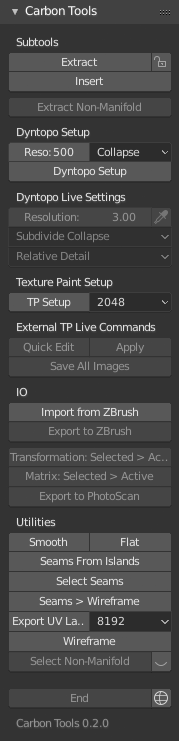
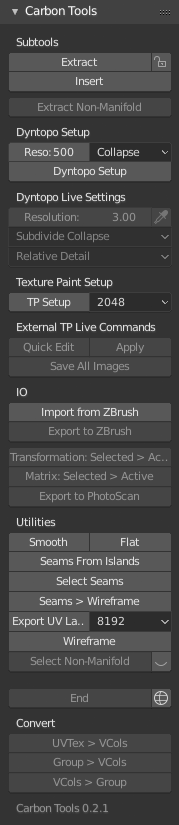
uvtex / vcols / group conversions

diff --git a/carbon_tools.py b/carbon_tools.py
@@ -19,7 +19,7 @@
 bl_info = {"name": "Carbon Tools",
            "description": "Ever-evolving set of small tools, workflows and shortcuts focused mainly on processing photogrammetry scans.",
            "author": "Jakub Uhlik",
-           "version": (0, 2, 0),
+           "version": (0, 2, 1),
            "blender": (2, 80, 0),
            "location": "3D Viewport > Sidebar > Carbon Tools",
            "warning": "",
@@ -31,6 +31,7 @@ bl_info = {"name": "Carbon Tools",
 import os
 import uuid
 import sys
+import math
 
 import bpy
 import bmesh
@@ -38,6 +39,16 @@ from bpy.types import Operator, Panel
 from mathutils import Vector, Matrix
 from bpy.props import FloatProperty, IntProperty, BoolProperty, StringProperty, EnumProperty, PointerProperty
 from bpy.types import PropertyGroup
+import numpy as np
+
+
+DEBUG = False
+
+
+def log(msg, indent=0, ):
+    m = "{0}> {1}".format("    " * indent, msg)
+    if(DEBUG):
+        print(m)
 
 
 class ObjDiff():
@@ -71,6 +82,33 @@ class Utils():
             if(a.type == "VIEW_3D"):
                 return a.spaces[0]
         return None
+
+
+class Progress():
+    def __init__(self, total, indent=0, prefix="> ", ):
+        self.current = 0
+        self.percent = -1
+        self.last = -1
+        self.total = total
+        self.prefix = prefix
+        self.indent = indent
+        self.t = "    "
+        self.r = "\r"
+        self.n = "\n"
+    
+    def step(self, numdone=1):
+        if(not DEBUG):
+            return
+        
+        self.current += numdone
+        self.percent = int(self.current / (self.total / 100))
+        if(self.percent > self.last):
+            sys.stdout.write(self.r)
+            sys.stdout.write("{0}{1}{2}%".format(self.t * self.indent, self.prefix, self.percent))
+            self.last = self.percent
+        if(self.percent >= 100 or self.total == self.current):
+            sys.stdout.write(self.r)
+            sys.stdout.write("{0}{1}{2}%{3}".format(self.t * self.indent, self.prefix, 100, self.n))
 
 
 class CARBON_OT_quick_mesh_dyntopo_cleanup(Operator):
@@ -671,6 +709,237 @@ class CARBON_OT_shade_flat(Operator):
         return {'FINISHED'}
 
 
+class CARBON_OT_texture_to_vertex_colors(Operator):
+    bl_idname = "carbon_tools.texture_to_vertex_colors"
+    bl_label = "UVTex > VCols"
+    bl_description = "Copy image colors from active image texture node in active material using active UV layout to new vertex colors"
+    bl_options = {'REGISTER', 'UNDO', }
+    
+    @classmethod
+    def poll(cls, context):
+        # o = context.active_object
+        # o_ok = (o is not None and o.type == 'MESH' and context.mode == 'OBJECT')
+        # m = o.active_material
+        # m_ok = (m is not None)
+        # n_ok = False
+        # i_ok = False
+        # u_ok = (o.data.uv_layers.active is not None)
+        # if(m_ok):
+        #     n = m.node_tree.nodes.active
+        #     n_ok = (n.type == 'TEX_IMAGE')
+        #     if(n_ok):
+        #         if(n.image is not None):
+        #             i = n.image
+        #             i_ok = os.path.exists(i.filepath_from_user())
+        # return (o_ok and m_ok and n_ok and i_ok and u_ok)
+        
+        if(context.mode != 'OBJECT'):
+            return False
+        o = context.active_object
+        if(not o):
+            return False
+        if(o.type != 'MESH'):
+            return False
+        m = o.active_material
+        if(not m):
+            return False
+        d = o.data
+        if(not d.uv_layers.active):
+            return False
+        n = m.node_tree.nodes.active
+        if(not n):
+            return False
+        if(n.type != 'TEX_IMAGE'):
+            return False
+        if(not n.image):
+            return False
+        i = n.image
+        if(not os.path.exists(i.filepath_from_user())):
+            return False
+        return True
+    
+    def execute(self, context):
+        log(self.bl_idname, 0)
+        
+        def remap(v, min1, max1, min2, max2):
+            def clamp(v, vmin, vmax):
+                if(vmax <= vmin):
+                    raise ValueError("Maximum value is smaller than or equal to minimum.")
+                if(v <= vmin):
+                    return vmin
+                if(v >= vmax):
+                    return vmax
+                return v
+            
+            def normalize(v, vmin, vmax):
+                return (v - vmin) / (vmax - vmin)
+            
+            def interpolate(nv, vmin, vmax):
+                return vmin + (vmax - vmin) * nv
+            
+            v = clamp(v, min1, max1)
+            r = interpolate(normalize(v, min1, max1), min2, max2)
+            r = clamp(r, min2, max2)
+            return r
+        
+        o = context.active_object
+        m = o.active_material
+        n = m.node_tree.nodes.active
+        im = n.image
+        im.update()
+        w, h = im.size
+        
+        a = np.asarray(im.pixels)
+        a = a.reshape((h, w, 4))
+        
+        o.data.vertex_colors.new(name=im.name)
+        bm = bmesh.new()
+        bm.from_mesh(o.data)
+        col_layer = bm.loops.layers.color.active
+        uvl = bm.loops.layers.uv.active
+        fs = bm.faces
+        uv_layers = o.data.uv_layers
+        
+        prgs = Progress(len(fs), 1)
+        for f in fs:
+            prgs.step()
+            ls = f.loops
+            for l in ls:
+                x, y = l[uvl].uv.to_tuple()
+                xx = int(round(remap(x, 0.0, 1.0, 0, w - 1)))
+                yy = int(round(remap(y, 0.0, 1.0, 0, h - 1)))
+                l[col_layer] = a[yy][xx]
+        
+        bm.to_mesh(o.data)
+        bm.free()
+        log("done.", 1)
+        
+        return {'FINISHED'}
+
+
+class CARBON_OT_vertex_group_to_vertex_colors(Operator):
+    bl_idname = "carbon_tools.vertex_group_to_vertex_colors"
+    bl_label = "Group > VCols"
+    bl_description = "Active vertex group to new vertex colors, vertex weight to rgba(weight, weight, weight, 1.0)"
+    bl_options = {'REGISTER', 'UNDO', }
+    
+    @classmethod
+    def poll(cls, context):
+        if(context.mode != 'OBJECT'):
+            return False
+        o = context.active_object
+        if(not o):
+            return False
+        if(o.type != 'MESH'):
+            return False
+        if(not o.vertex_groups.active):
+            return False
+        return True
+    
+    def execute(self, context):
+        log(self.bl_idname, 0)
+        o = context.active_object
+        me = o.data
+        vg = o.vertex_groups.active
+        
+        # add zero to every vertex to have them all in group
+        indexes = [i for i in range(len(me.vertices))]
+        vg.add(indexes, 0.0, 'ADD')
+        
+        vc = me.vertex_colors.new(name=vg.name)
+        me.vertex_colors.active = vc
+        vcd = vc.data
+        vcols = [None] * len(me.vertices)
+        
+        log("precalculating colors:", 1)
+        prgs = Progress(len(me.vertices), 2)
+        for v in me.vertices:
+            prgs.step()
+            i = v.index
+            w = vg.weight(i)
+            vcols[i] = (w, w, w, 1.0)
+        
+        log("assigning colors:", 1)
+        prgs = Progress(len(me.loops), 2)
+        for l in me.loops:
+            prgs.step()
+            li = l.index
+            vi = l.vertex_index
+            vcd[li].color = vcols[vi]
+        
+        log("done.", 1)
+        
+        return {'FINISHED'}
+
+
+class CARBON_OT_vertex_colors_to_vertex_group(Operator):
+    bl_idname = "carbon_tools.vertex_colors_to_vertex_group"
+    bl_label = "VCols > Group"
+    bl_description = "Active vertex colors to new vertex group, vertex weight by color perceived luminance"
+    bl_options = {'REGISTER', 'UNDO', }
+    
+    @classmethod
+    def poll(cls, context):
+        if(context.mode != 'OBJECT'):
+            return False
+        o = context.active_object
+        if(not o):
+            return False
+        if(o.type != 'MESH'):
+            return False
+        if(not o.data.vertex_colors.active):
+            return False
+        return True
+    
+    def execute(self, context):
+        log(self.bl_idname, 0)
+        o = context.active_object
+        me = o.data
+        vc = me.vertex_colors.active
+        vs = me.vertices
+        ls = me.loops
+        
+        vg = o.vertex_groups.new(name=vc.name)
+        
+        bm = bmesh.new()
+        bm.from_mesh(me)
+        
+        lums = [None] * len(vs)
+        cl = bm.loops.layers.color.active
+        
+        bm.verts.ensure_lookup_table()
+        log("precalculating weights:", 1)
+        prgs = Progress(len(bm.verts), 2)
+        for i, v in enumerate(bm.verts):
+            prgs.step()
+            vi = v.index
+            lums[vi] = []
+            ll = v.link_loops
+            for l in ll:
+                r, g, b, _ = l[cl][:]
+                # http://stackoverflow.com/questions/596216/formula-to-determine-brightness-of-rgb-color
+                lum = math.sqrt(0.299 * r ** 2 + 0.587 * g ** 2 + 0.114 * b ** 2)
+                lums[vi].append(lum)
+        
+        ws = [None] * len(vs)
+        for i, a in enumerate(lums):
+            ws[i] = sum(a) / float(len(a))
+        
+        log("assigning weights:", 1)
+        prgs = Progress(len(vs), 2)
+        for i, v in enumerate(vs):
+            prgs.step()
+            w = ws[i]
+            # if l is None, means that vertex is not connected to any face > has no loops > has no color/weight
+            if(l is not None):
+                vg.add([i], w, 'REPLACE')
+        
+        bm.free()
+        log("done.", 1)
+        
+        return {'FINISHED'}
+
+
 class CARBON_properties(PropertyGroup):
     extract_protect: BoolProperty(name="Protect Mesh Borders", default=False, description="Hide mesh borders to protect them from modification.", )
     dyntopo_resolution: IntProperty(name="Resolution", default=500, min=0, max=1000, description="Dyntopo constant resolution, this is just initial value. Change in Dyntopo settings afterwards.", )
@@ -809,6 +1078,12 @@ class CARBON_PT_carbon_tools(Panel):
         r.operator('carbon_tools.end_current_procedure', text="End", )
         r.prop(ctp, 'end_keep_wire', toggle=True, text='', icon='SHADING_WIRE', icon_only=True, )
         
+        c = l.column(align=True)
+        c.label(text="Convert")
+        c.operator('carbon_tools.texture_to_vertex_colors')
+        c.operator('carbon_tools.vertex_group_to_vertex_colors')
+        c.operator('carbon_tools.vertex_colors_to_vertex_group')
+        
         r = l.row()
         r.label(text='Carbon Tools {}'.format(ctp.version))
         r.enabled = False
@@ -835,6 +1110,9 @@ classes = (
     CARBON_OT_select_non_manifold_extra,
     CARBON_OT_shade_smooth,
     CARBON_OT_shade_flat,
+    CARBON_OT_texture_to_vertex_colors,
+    CARBON_OT_vertex_group_to_vertex_colors,
+    CARBON_OT_vertex_colors_to_vertex_group,
     CARBON_properties,
     CARBON_PT_carbon_tools,
 )

diff --git a/README.md b/README.md
@@ -164,11 +164,11 @@ Mode is switched to Sculpt with Dyntopo, brush is set to strength 0 - affecting 
 
 #### IO
 
-* **Import from ZBrush**
-* **Export to ZBrush**
+* **Import from ZBrush** (depends on other addon Fast Wavefront^2)
+* **Export to ZBrush** (depends on other addon Fast Wavefront^2)
 * **Transformation: Selected > Active** - Copy transformation from selected to active. Useful for setting correct scale and orientation after initial import from PhotoScan.
 * **Matrix: Selected > Active** - Select matrix source object first and then target object. Matrix will be copied while keeping visual transformation intact.
-* **Export to PhotoScan**
+* **Export to PhotoScan** (depends on other addon Fast Wavefront^2)
 
 #### Utilities
 
@@ -181,8 +181,15 @@ Mode is switched to Sculpt with Dyntopo, brush is set to strength 0 - affecting 
 * **Select Non-Manifold** select non-manifold elements and optionally focus camera on them (eye icon)
 * **End** ends current procedure: Dyntopo and Texture Paint back to Object mode and reset all settings
 
+#### Convert
+
+* **UVTex > VCols** - Copy image colors from active image texture node in active material using active UV layout to new vertex colors
+* **Group > VCols** - Active vertex group to new vertex colors, vertex weight to rgba(weight, weight, weight, 1.0)
+* **VCols > Group** - Active vertex colors to new vertex group, vertex weight by color perceived luminance
+
 changelog:
 
+* 0.2.1 uvtex / vcols / group conversions
 * 0.2.0 first release
 
 ***
